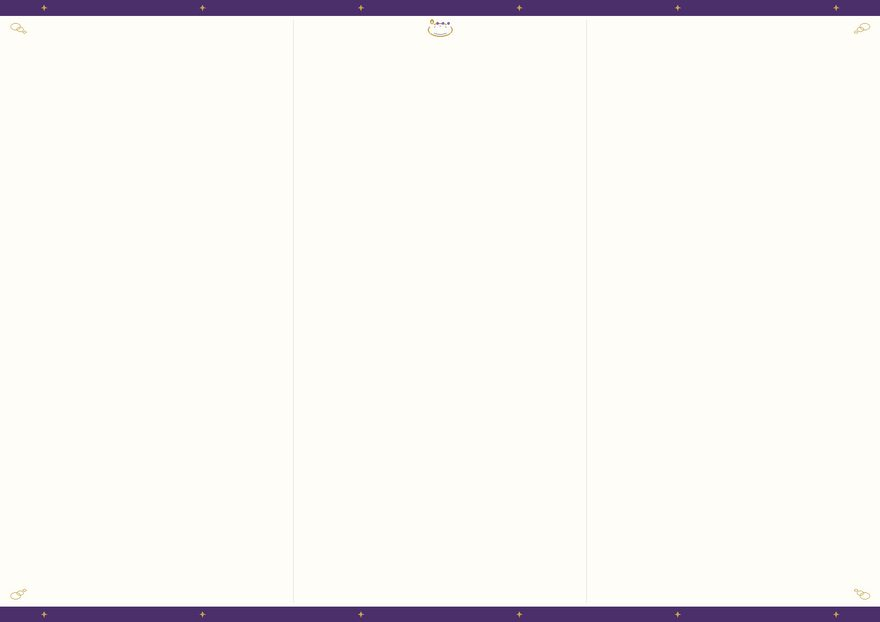
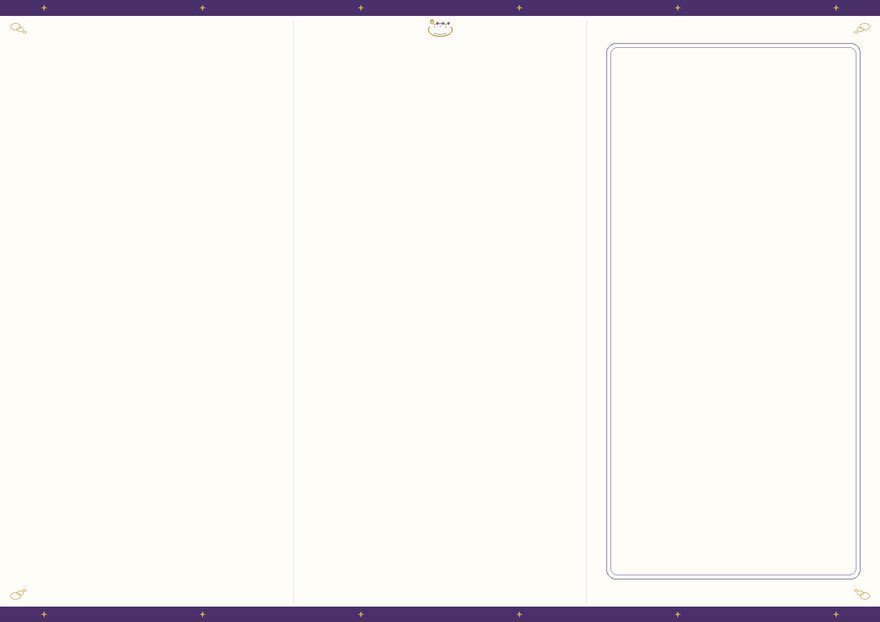
배경지 앞면·뒷면을 한 쌍으로 보여주고 연한 칸을 넣음

Changed region(s): [[0.675, 0.0611, 0.9818, 0.9469]]

diff --git a/index.html b/index.html
@@ -215,6 +215,31 @@
   .tpl-note a{color:var(--maroon); font-weight:700;}
 
   
+
+  .tpl-thumb.tpl-pair{
+    display:grid; grid-template-columns:1fr 1fr; gap:0;
+    aspect-ratio:297/160;
+  }
+  .tpl-thumb.tpl-pair .tpl-face{
+    position:relative; overflow:hidden; min-width:0;
+  }
+  .tpl-thumb.tpl-pair .tpl-face + .tpl-face{border-left:1px solid var(--line);}
+  .tpl-thumb.tpl-pair img{width:100%; height:100%; object-fit:cover; object-position:center;}
+  .tpl-thumb.tpl-pair .tpl-face i{
+    position:absolute; left:8px; bottom:8px;
+    font-style:normal; font-size:11px; font-weight:700;
+    background:rgba(250,246,236,.92); color:var(--forest-deep);
+    border:1px solid var(--line); border-radius:999px; padding:2px 8px;
+  }
+  .tpl-lightbox-figure.pair{
+    display:grid; grid-template-columns:1fr 1fr; gap:14px; align-items:start;
+  }
+  .tpl-lightbox-figure.pair figure{margin:0; min-width:0;}
+  .tpl-lightbox-figure.pair img{max-height:min(58vh,520px); width:100%;}
+  .tpl-lightbox-figure.pair figcaption{
+    font-size:12px; font-weight:700; color:var(--forest-deep); margin-top:8px; text-align:center;
+  }
+
   .tpl-lightbox[hidden]{display:none;}
   .tpl-lightbox{
     position:fixed; inset:0; z-index:80;
@@ -269,6 +294,7 @@
     .tpl-card.portrait .tpl-thumb{max-height:none;}
     .tpl-lightbox-panel{grid-template-columns:1fr;}
     .tpl-lightbox-figure{border-right:0; border-bottom:1px solid var(--line);}
+    .tpl-lightbox-figure.pair{grid-template-columns:1fr;}
   }
 
   :focus-visible{outline:2px solid var(--forest); outline-offset:2px;}
@@ -390,7 +416,7 @@
         </div>
       </a>
       <a class="tpl-card" data-cat="season" href="request.html">
-        <div class="tpl-thumb"><img src="assets/templates/advent.jpg" alt="대림절 배경지"></div>
+        <div class="tpl-thumb tpl-pair"><span class="tpl-face"><img src="assets/templates/advent.jpg" alt="대림절 배경지 앞면"><i>앞면</i></span><span class="tpl-face"><img src="assets/templates/advent-back.jpg" alt="대림절 배경지 뒷면"><i>뒷면</i></span></div>
         <div class="tpl-meta">
           <div class="tpl-kicker">절기 배경</div>
           <h3>대림절</h3>
@@ -398,7 +424,7 @@
         </div>
       </a>
       <a class="tpl-card" data-cat="season" href="request.html">
-        <div class="tpl-thumb"><img src="assets/templates/christmas.jpg" alt="성탄절 배경지"></div>
+        <div class="tpl-thumb tpl-pair"><span class="tpl-face"><img src="assets/templates/christmas.jpg" alt="성탄절 배경지 앞면"><i>앞면</i></span><span class="tpl-face"><img src="assets/templates/christmas-back.jpg" alt="성탄절 배경지 뒷면"><i>뒷면</i></span></div>
         <div class="tpl-meta">
           <div class="tpl-kicker">절기 배경</div>
           <h3>성탄절</h3>
@@ -406,7 +432,7 @@
         </div>
       </a>
       <a class="tpl-card" data-cat="season" href="request.html">
-        <div class="tpl-thumb"><img src="assets/templates/easter.jpg" alt="부활절 배경지"></div>
+        <div class="tpl-thumb tpl-pair"><span class="tpl-face"><img src="assets/templates/easter.jpg" alt="부활절 배경지 앞면"><i>앞면</i></span><span class="tpl-face"><img src="assets/templates/easter-back.jpg" alt="부활절 배경지 뒷면"><i>뒷면</i></span></div>
         <div class="tpl-meta">
           <div class="tpl-kicker">절기 배경</div>
           <h3>부활절</h3>
@@ -414,7 +440,7 @@
         </div>
       </a>
       <a class="tpl-card" data-cat="season" href="request.html">
-        <div class="tpl-thumb"><img src="assets/templates/thanksgiving.jpg" alt="추수감사절 배경지"></div>
+        <div class="tpl-thumb tpl-pair"><span class="tpl-face"><img src="assets/templates/thanksgiving.jpg" alt="추수감사절 배경지 앞면"><i>앞면</i></span><span class="tpl-face"><img src="assets/templates/thanksgiving-back.jpg" alt="추수감사절 배경지 뒷면"><i>뒷면</i></span></div>
         <div class="tpl-meta">
           <div class="tpl-kicker">절기 배경</div>
           <h3>추수감사절</h3>
@@ -422,7 +448,7 @@
         </div>
       </a>
       <a class="tpl-card" data-cat="season" href="request.html">
-        <div class="tpl-thumb"><img src="assets/templates/newyear.jpg" alt="송구영신 배경지"></div>
+        <div class="tpl-thumb tpl-pair"><span class="tpl-face"><img src="assets/templates/newyear.jpg" alt="송구영신 배경지 앞면"><i>앞면</i></span><span class="tpl-face"><img src="assets/templates/newyear-back.jpg" alt="송구영신 배경지 뒷면"><i>뒷면</i></span></div>
         <div class="tpl-meta">
           <div class="tpl-kicker">절기 배경</div>
           <h3>송구영신</h3>
@@ -430,7 +456,7 @@
         </div>
       </a>
       <a class="tpl-card" data-cat="season" href="request.html">
-        <div class="tpl-thumb"><img src="assets/templates/spring.jpg" alt="봄 배경지"></div>
+        <div class="tpl-thumb tpl-pair"><span class="tpl-face"><img src="assets/templates/spring.jpg" alt="봄 배경지 앞면"><i>앞면</i></span><span class="tpl-face"><img src="assets/templates/spring-back.jpg" alt="봄 배경지 뒷면"><i>뒷면</i></span></div>
         <div class="tpl-meta">
           <div class="tpl-kicker">절기 배경</div>
           <h3>봄</h3>
@@ -438,7 +464,7 @@
         </div>
       </a>
       <a class="tpl-card" data-cat="season" href="request.html">
-        <div class="tpl-thumb"><img src="assets/templates/summer.jpg" alt="여름 배경지"></div>
+        <div class="tpl-thumb tpl-pair"><span class="tpl-face"><img src="assets/templates/summer.jpg" alt="여름 배경지 앞면"><i>앞면</i></span><span class="tpl-face"><img src="assets/templates/summer-back.jpg" alt="여름 배경지 뒷면"><i>뒷면</i></span></div>
         <div class="tpl-meta">
           <div class="tpl-kicker">절기 배경</div>
           <h3>여름</h3>
@@ -446,7 +472,7 @@
         </div>
       </a>
       <a class="tpl-card" data-cat="season" href="request.html">
-        <div class="tpl-thumb"><img src="assets/templates/autumn.jpg" alt="가을 배경지"></div>
+        <div class="tpl-thumb tpl-pair"><span class="tpl-face"><img src="assets/templates/autumn.jpg" alt="가을 배경지 앞면"><i>앞면</i></span><span class="tpl-face"><img src="assets/templates/autumn-back.jpg" alt="가을 배경지 뒷면"><i>뒷면</i></span></div>
         <div class="tpl-meta">
           <div class="tpl-kicker">절기 배경</div>
           <h3>가을</h3>
@@ -454,7 +480,7 @@
         </div>
       </a>
       <a class="tpl-card" data-cat="season" href="request.html">
-        <div class="tpl-thumb"><img src="assets/templates/winter.jpg" alt="겨울 배경지"></div>
+        <div class="tpl-thumb tpl-pair"><span class="tpl-face"><img src="assets/templates/winter.jpg" alt="겨울 배경지 앞면"><i>앞면</i></span><span class="tpl-face"><img src="assets/templates/winter-back.jpg" alt="겨울 배경지 뒷면"><i>뒷면</i></span></div>
         <div class="tpl-meta">
           <div class="tpl-kicker">절기 배경</div>
           <h3>겨울</h3>
@@ -462,7 +488,7 @@
         </div>
       </a>
       <a class="tpl-card" data-cat="paper" href="request.html">
-        <div class="tpl-thumb"><img src="assets/templates/linen.jpg" alt="미색 모조 배경지"></div>
+        <div class="tpl-thumb tpl-pair"><span class="tpl-face"><img src="assets/templates/linen.jpg" alt="미색 모조 배경지 앞면"><i>앞면</i></span><span class="tpl-face"><img src="assets/templates/linen-back.jpg" alt="미색 모조 배경지 뒷면"><i>뒷면</i></span></div>
         <div class="tpl-meta">
           <div class="tpl-kicker">배경지</div>
           <h3>미색 모조</h3>
@@ -470,7 +496,7 @@
         </div>
       </a>
       <a class="tpl-card" data-cat="paper" href="request.html">
-        <div class="tpl-thumb"><img src="assets/templates/forest.jpg" alt="숲초록 배경지"></div>
+        <div class="tpl-thumb tpl-pair"><span class="tpl-face"><img src="assets/templates/forest.jpg" alt="숲초록 배경지 앞면"><i>앞면</i></span><span class="tpl-face"><img src="assets/templates/forest-back.jpg" alt="숲초록 배경지 뒷면"><i>뒷면</i></span></div>
         <div class="tpl-meta">
           <div class="tpl-kicker">배경지</div>
           <h3>숲초록</h3>
@@ -478,7 +504,7 @@
         </div>
       </a>
       <a class="tpl-card" data-cat="paper" href="request.html">
-        <div class="tpl-thumb"><img src="assets/templates/burgundy.jpg" alt="버건디 배경지"></div>
+        <div class="tpl-thumb tpl-pair"><span class="tpl-face"><img src="assets/templates/burgundy.jpg" alt="버건디 배경지 앞면"><i>앞면</i></span><span class="tpl-face"><img src="assets/templates/burgundy-back.jpg" alt="버건디 배경지 뒷면"><i>뒷면</i></span></div>
         <div class="tpl-meta">
           <div class="tpl-kicker">배경지</div>
           <h3>버건디</h3>
@@ -486,7 +512,7 @@
         </div>
       </a>
       <a class="tpl-card" data-cat="paper" href="request.html">
-        <div class="tpl-thumb"><img src="assets/templates/navy.jpg" alt="남색 배경지"></div>
+        <div class="tpl-thumb tpl-pair"><span class="tpl-face"><img src="assets/templates/navy.jpg" alt="남색 배경지 앞면"><i>앞면</i></span><span class="tpl-face"><img src="assets/templates/navy-back.jpg" alt="남색 배경지 뒷면"><i>뒷면</i></span></div>
         <div class="tpl-meta">
           <div class="tpl-kicker">배경지</div>
           <h3>남색</h3>
@@ -494,7 +520,7 @@
         </div>
       </a>
       <a class="tpl-card" data-cat="paper" href="request.html">
-        <div class="tpl-thumb"><img src="assets/templates/ivory.jpg" alt="양피지 배경지"></div>
+        <div class="tpl-thumb tpl-pair"><span class="tpl-face"><img src="assets/templates/ivory.jpg" alt="양피지 배경지 앞면"><i>앞면</i></span><span class="tpl-face"><img src="assets/templates/ivory-back.jpg" alt="양피지 배경지 뒷면"><i>뒷면</i></span></div>
         <div class="tpl-meta">
           <div class="tpl-kicker">배경지</div>
           <h3>양피지</h3>
@@ -502,7 +528,7 @@
         </div>
       </a>
       <a class="tpl-card" data-cat="paper" href="request.html">
-        <div class="tpl-thumb"><img src="assets/templates/terracotta.jpg" alt="황토 배경지"></div>
+        <div class="tpl-thumb tpl-pair"><span class="tpl-face"><img src="assets/templates/terracotta.jpg" alt="황토 배경지 앞면"><i>앞면</i></span><span class="tpl-face"><img src="assets/templates/terracotta-back.jpg" alt="황토 배경지 뒷면"><i>뒷면</i></span></div>
         <div class="tpl-meta">
           <div class="tpl-kicker">배경지</div>
           <h3>황토</h3>
@@ -510,7 +536,7 @@
         </div>
       </a>
       <a class="tpl-card" data-cat="paper" href="request.html">
-        <div class="tpl-thumb"><img src="assets/templates/ink.jpg" alt="먹색 배경지"></div>
+        <div class="tpl-thumb tpl-pair"><span class="tpl-face"><img src="assets/templates/ink.jpg" alt="먹색 배경지 앞면"><i>앞면</i></span><span class="tpl-face"><img src="assets/templates/ink-back.jpg" alt="먹색 배경지 뒷면"><i>뒷면</i></span></div>
         <div class="tpl-meta">
           <div class="tpl-kicker">배경지</div>
           <h3>먹색</h3>
@@ -518,7 +544,7 @@
         </div>
       </a>
       <a class="tpl-card" data-cat="paper" href="request.html">
-        <div class="tpl-thumb"><img src="assets/templates/slate.jpg" alt="회청 배경지"></div>
+        <div class="tpl-thumb tpl-pair"><span class="tpl-face"><img src="assets/templates/slate.jpg" alt="회청 배경지 앞면"><i>앞면</i></span><span class="tpl-face"><img src="assets/templates/slate-back.jpg" alt="회청 배경지 뒷면"><i>뒷면</i></span></div>
         <div class="tpl-meta">
           <div class="tpl-kicker">배경지</div>
           <h3>회청</h3>
@@ -526,7 +552,7 @@
         </div>
       </a>
       <a class="tpl-card" data-cat="paper" href="request.html">
-        <div class="tpl-thumb"><img src="assets/templates/sand.jpg" alt="금모래 배경지"></div>
+        <div class="tpl-thumb tpl-pair"><span class="tpl-face"><img src="assets/templates/sand.jpg" alt="금모래 배경지 앞면"><i>앞면</i></span><span class="tpl-face"><img src="assets/templates/sand-back.jpg" alt="금모래 배경지 뒷면"><i>뒷면</i></span></div>
         <div class="tpl-meta">
           <div class="tpl-kicker">배경지</div>
           <h3>금모래</h3>
@@ -534,7 +560,7 @@
         </div>
       </a>
       <a class="tpl-card" data-cat="paper" href="request.html">
-        <div class="tpl-thumb"><img src="assets/templates/plum.jpg" alt="보라 배경지"></div>
+        <div class="tpl-thumb tpl-pair"><span class="tpl-face"><img src="assets/templates/plum.jpg" alt="보라 배경지 앞면"><i>앞면</i></span><span class="tpl-face"><img src="assets/templates/plum-back.jpg" alt="보라 배경지 뒷면"><i>뒷면</i></span></div>
         <div class="tpl-meta">
           <div class="tpl-kicker">배경지</div>
           <h3>보라</h3>
@@ -542,7 +568,7 @@
         </div>
       </a>
       <a class="tpl-card" data-cat="paper" href="request.html">
-        <div class="tpl-thumb"><img src="assets/templates/fog.jpg" alt="안개회색 배경지"></div>
+        <div class="tpl-thumb tpl-pair"><span class="tpl-face"><img src="assets/templates/fog.jpg" alt="안개회색 배경지 앞면"><i>앞면</i></span><span class="tpl-face"><img src="assets/templates/fog-back.jpg" alt="안개회색 배경지 뒷면"><i>뒷면</i></span></div>
         <div class="tpl-meta">
           <div class="tpl-kicker">배경지</div>
           <h3>안개회색</h3>
@@ -550,7 +576,7 @@
         </div>
       </a>
       <a class="tpl-card" data-cat="dept" href="request.html">
-        <div class="tpl-thumb"><img src="assets/templates/youth.jpg" alt="청년부 배경지"></div>
+        <div class="tpl-thumb tpl-pair"><span class="tpl-face"><img src="assets/templates/youth.jpg" alt="청년부 배경지 앞면"><i>앞면</i></span><span class="tpl-face"><img src="assets/templates/youth-back.jpg" alt="청년부 배경지 뒷면"><i>뒷면</i></span></div>
         <div class="tpl-meta">
           <div class="tpl-kicker">부서 배경</div>
           <h3>청년부</h3>
@@ -558,7 +584,7 @@
         </div>
       </a>
       <a class="tpl-card" data-cat="dept" href="request.html">
-        <div class="tpl-thumb"><img src="assets/templates/children.jpg" alt="아동부 배경지"></div>
+        <div class="tpl-thumb tpl-pair"><span class="tpl-face"><img src="assets/templates/children.jpg" alt="아동부 배경지 앞면"><i>앞면</i></span><span class="tpl-face"><img src="assets/templates/children-back.jpg" alt="아동부 배경지 뒷면"><i>뒷면</i></span></div>
         <div class="tpl-meta">
           <div class="tpl-kicker">부서 배경</div>
           <h3>아동부</h3>
@@ -574,7 +600,7 @@
         </div>
       </a>
     </div>
-    <p class="tpl-note">교단 주보와 큐카드는 실제 출력본입니다. 절기·배경지는 프로그램에 들어 있는 같은 그림입니다. 진한 색은 띠와 테두리로만 들어가 글씨가 읽힙니다. 카드를 누르면 먼저 크게 볼 수 있습니다.</p>
+    <p class="tpl-note">교단 주보와 큐카드는 실제 출력본입니다. 절기·배경지는 앞면과 뒷면이 한 쌍이며, 프로그램에도 그대로 들어 있습니다. 연한 칸은 자리 안내선이라 글씨를 가리지 않습니다.</p>
   </div>
 </section>
 
@@ -674,8 +700,15 @@
   <div class="tpl-lightbox-backdrop" data-close="1"></div>
   <div class="tpl-lightbox-panel" role="dialog" aria-modal="true" aria-labelledby="tplLbTitle">
     <button type="button" class="tpl-lightbox-close" data-close="1">닫기</button>
-    <div class="tpl-lightbox-figure">
-      <img id="tplLbImg" alt="">
+    <div class="tpl-lightbox-figure" id="tplLbFigure">
+      <figure id="tplLbFrontWrap">
+        <img id="tplLbImg" alt="">
+        <figcaption id="tplLbFrontCap">앞면</figcaption>
+      </figure>
+      <figure id="tplLbBackWrap" hidden>
+        <img id="tplLbImgBack" alt="">
+        <figcaption>뒷면</figcaption>
+      </figure>
       <div id="tplLbFallback" class="tpl-type" hidden></div>
     </div>
     <div class="tpl-lightbox-copy">
@@ -737,15 +770,36 @@
       hint.textContent = '프로그램 배경지 목록에 같은 이름으로 들어 있습니다.';
     }
     apply.href = 'request.html?item=' + encodeURIComponent(name);
-    if(photo && photo.getAttribute('src')){
+    var figure = document.getElementById('tplLbFigure');
+    var backImg = document.getElementById('tplLbImgBack');
+    var backWrap = document.getElementById('tplLbBackWrap');
+    var frontCap = document.getElementById('tplLbFrontCap');
+    var faces = card.querySelectorAll('.tpl-pair img');
+    if(faces.length >= 2){
       img.hidden = false;
       fallback.hidden = true;
+      backWrap.hidden = false;
+      figure.classList.add('pair');
+      img.src = faces[0].getAttribute('src');
+      img.alt = faces[0].getAttribute('alt') || (name + ' 앞면');
+      backImg.src = faces[1].getAttribute('src');
+      backImg.alt = faces[1].getAttribute('alt') || (name + ' 뒷면');
+      frontCap.hidden = false;
+      hint.textContent = '프로그램에서 앞면·뒷면이 한 쌍으로 적용됩니다. 칸은 안내선이라 글씨를 가리지 않습니다.';
+    } else if(photo && photo.getAttribute('src')){
+      img.hidden = false;
+      fallback.hidden = true;
+      backWrap.hidden = true;
+      figure.classList.remove('pair');
       img.src = photo.getAttribute('src');
       img.alt = photo.getAttribute('alt') || name;
+      frontCap.hidden = true;
     } else {
       img.removeAttribute('src');
       img.hidden = true;
+      backWrap.hidden = true;
       fallback.hidden = false;
+      figure.classList.remove('pair');
       fallback.textContent = name;
       hint.textContent = '프로그램 안에 예배순서 프리셋이 있습니다. 인쇄 샘플 사진은 아직 없습니다.';
     }
